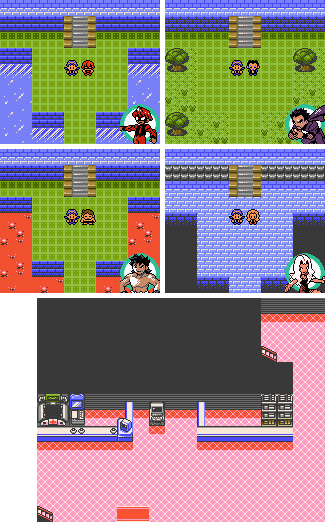
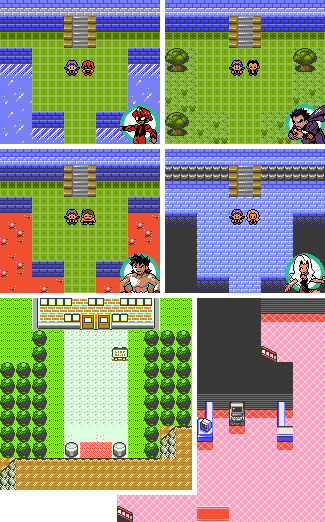
good clean up before sharing

Changed region(s): [[0.0, 0.5517, 0.9231, 1.0], [0.5846, 0.9502, 0.7077, 1.0]]

diff --git a/data/games/crystal.js b/data/games/crystal.js
@@ -74,8 +74,8 @@ let crystal = {
         rockethq:			   {x: 91,  y: 24, w: 8, h: 8,  name: "Team Rocket HQ"			 	   },
         // ssaqua:                {x: 213, y: 66, w: 8, h: 8,  name: "S.S. Aqua"                      },
         whirlislands:          {x: 11,  y: 64, w: 8, h: 8,  name: "Whirl Islands"                  },
-        icepath1:              {x: 115, y: 8,  w: 8, h: 8,  name: "Ice Path"                       },
-        icepath2:              {x: 123, y: 8,  w: 8, h: 8,  name: "Ice Path"                       },
+        icepath1:              {x: 115, y: 8,  w: 8, h: 8,  name: "Ice Path\n1F & B1F"             },
+        icepath2:              {x: 123, y: 8,  w: 8, h: 8,  name: "Ice Path\nB2F & B3F"            },
         blackthorngym:         {x: 123, y: 16, w: 8, h: 8,  name: "Blackthorn Gym"                 },
         victoryroad_reception: {x: 155, y: 34, w: 8, h: 14, name: "Victory Road\nLeague Reception" },
         
@@ -206,17 +206,18 @@ let crystal = {
 			den_house:   {x: 70,  y: 250, corridor: "den_door",  name: "Dragon's Den" },
         },
         indigo_e4: {
-			center_left:     {x: 40,  y: 490,                        name: "Indigo Plateau"    },
-			center_entrance: {x: 132, y: 490,                        name: "Indigo Plateau"    },
-			center_top:      {x: 269, y: 376,                        name: "Indigo Plateau"    },
-			will_top:        {x: 80,  y: 20,  corridor: "will_bot",  name: "E4 Member (Will)"  },
-			will_bot:        {x: 80,  y: 128, corridor: "will_top",  name: "E4 Member (Will)"  },
-			koga_top:        {x: 245, y: 20,  corridor: "koga_bot",  name: "E4 Member (Koga)"  },
-			koga_bot:        {x: 245, y: 128, corridor: "koga_top",  name: "E4 Member (Koga)"  },
-			bruno_top:       {x: 80,  y: 165, corridor: "bruno_bot", name: "E4 Member (Bruno)" },
-			bruno_bot:       {x: 80,  y: 279, corridor: "bruno_top", name: "E4 Member (Bruno)" },
-			karen_top:       {x: 245, y: 165, corridor: "karen_bot", name: "E4 Member (Karen)" },
-			karen_bot:       {x: 245, y: 279, corridor: "karen_top", name: "E4 Member (Karen)" },
+			indigo_top:		{x: 100, y: 440,	corridor: "indigo_bot",		name: "Indigo Plateau"    },
+			indigo_bot:		{x: 100, y: 340,	corridor: "indigo_top",		name: "Indigo Plateau"    },
+			center_ent:		{x: 220, y: 490,	corridor: "center_top",		name: "Indigo Plateau (center)"    },
+			center_top:		{x: 269, y: 376,	corridor: "center_ent",		name: "Indigo Plateau (center)"    },
+			will_top:		{x: 80,  y: 20,		corridor: "will_bot",		name: "E4 Member (Will)"  },
+			will_bot:		{x: 80,  y: 128,	corridor: "will_top",		name: "E4 Member (Will)"  },
+			koga_top:		{x: 245, y: 20,		corridor: "koga_bot",		name: "E4 Member (Koga)"  },
+			koga_bot:		{x: 245, y: 128,	corridor: "koga_top",		name: "E4 Member (Koga)"  },
+			bruno_top:		{x: 80,  y: 165,	corridor: "bruno_bot",		name: "E4 Member (Bruno)" },
+			bruno_bot:		{x: 80,  y: 279,	corridor: "bruno_top",		name: "E4 Member (Bruno)" },
+			karen_top:		{x: 245, y: 165,	corridor: "karen_bot",		name: "E4 Member (Karen)" },
+			karen_bot:		{x: 245, y: 279,	corridor: "karen_top",		name: "E4 Member (Karen)" },
         },
 
         pallet: {
@@ -530,12 +531,12 @@ let crystal = {
 			f5_se: {x: 706, y: 740,                    name: "Tin Tower (5F)"     },
 			f5_nw: {x: 566, y: 596,                    name: "Tin Tower (5F)"     },
 			f6_s:  {x: 152, y: 508, corridor: "f6_w",  name: "Tin Tower (6F)"     },
-			f6_w:  {x: 70,  y: 412, corridor: "f6_s",  name: "Tin Tower (6F)"     },
+			f6_w:  {x: 50,  y: 412, corridor: "f6_s",  name: "Tin Tower (6F)"     },
 			f7_s:  {x: 396, y: 508,                    name: "Tin Tower (7F)"     },
 			f7_w:  {x: 285, y: 416,                    name: "Tin Tower (7F)"     },
 			f7_n:  {x: 365, y: 318,                    name: "Tin Tower (7F)"     },
-			f8_n:  {x: 655, y: 317, corridor: "f8_w",  name: "Tin Tower (8F)"     },
-			f8_w:  {x: 706, y: 381, corridor: "f8_n",  name: "Tin Tower (8F)"     },
+			f8_n:  {x: 655, y: 317, corridor: "f8_e",  name: "Tin Tower (8F)"     },
+			f8_e:  {x: 720, y: 381, corridor: "f8_n",  name: "Tin Tower (8F)"     },
 			f9_s1: {x: 332, y: 200,                    name: "Tin Tower (9F L)"   },
 			f9_s2: {x: 365, y: 234,                    name: "Tin Tower (9F L)"   },
 			f9_e:  {x: 494, y: 119,                    name: "Tin Tower (9F L)"   },
@@ -570,6 +571,8 @@ let crystal = {
 			bottom: {x: 297, y: 493, corridor: "top"    },
 		},
         lighthouse: {
+			f1_entrance:  {x: 172, y: 850,							name: "Lighthouse (F1)"  },
+			f1_stairs:    {x: 60,  y: 812,							name: "Lighthouse (F1)"  },
 			f2_entrance:  {x: 60,  y: 510,							name: "Lighthouse (F2)"  },
 			f2_hole:      {x: 272, y: 546,							name: "Lighthouse (F2)"  },
 			f2_stairs:    {x: 84,  y: 327,							name: "Lighthouse (F2)"  },
